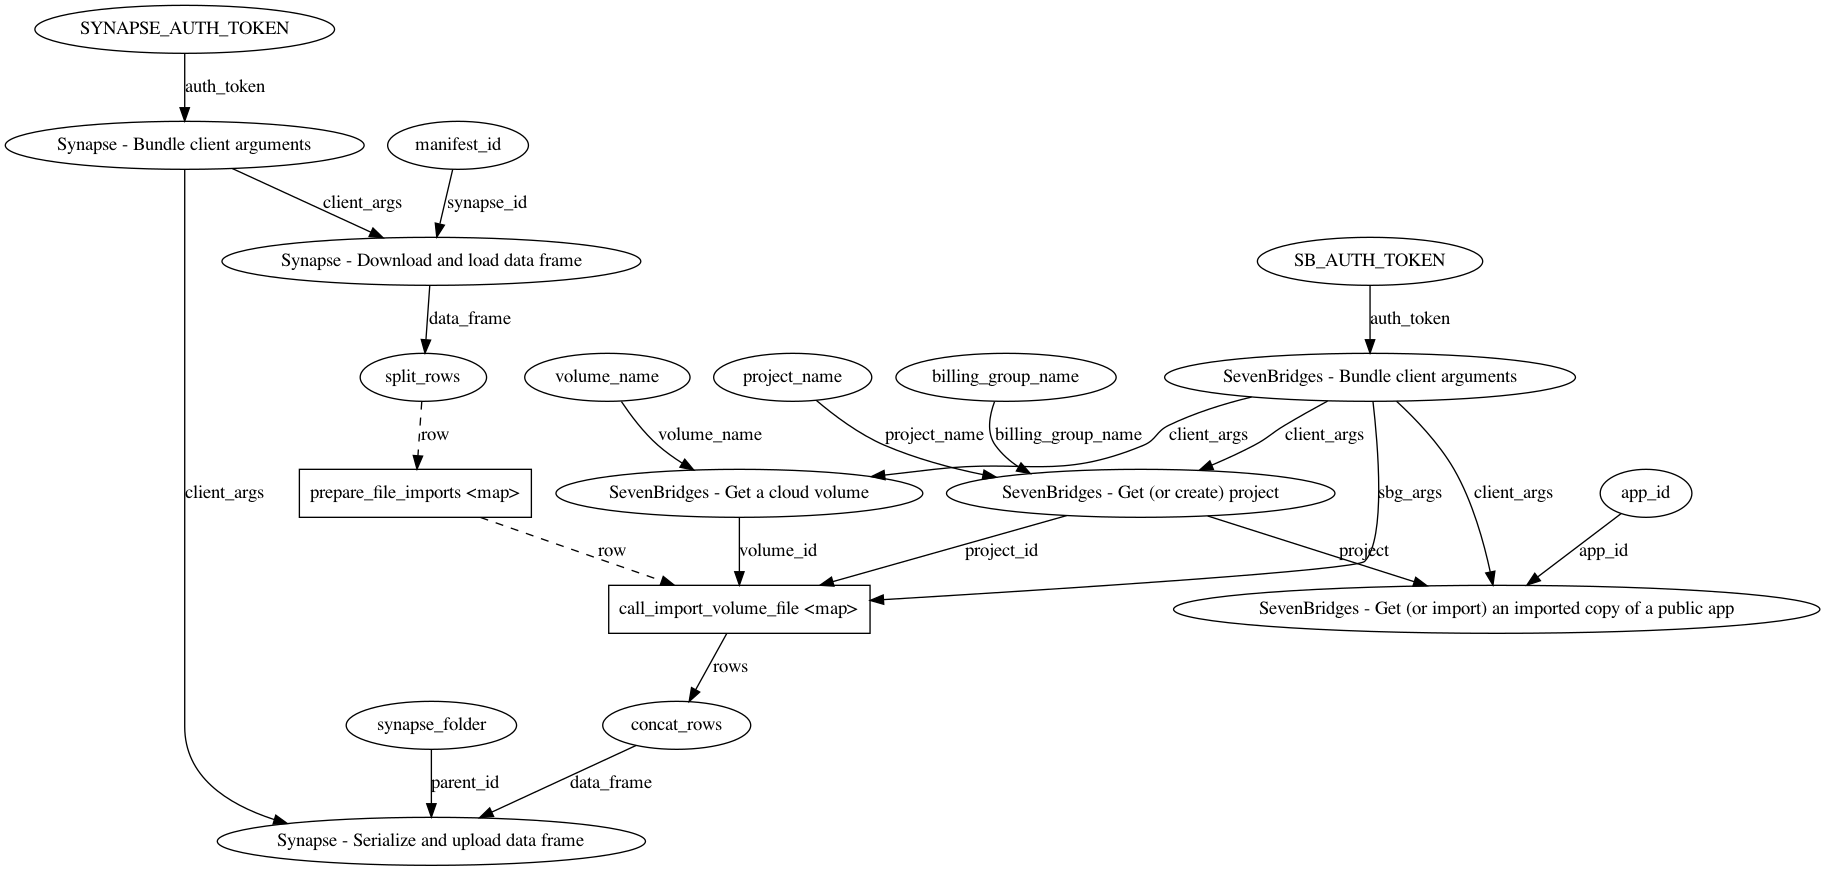
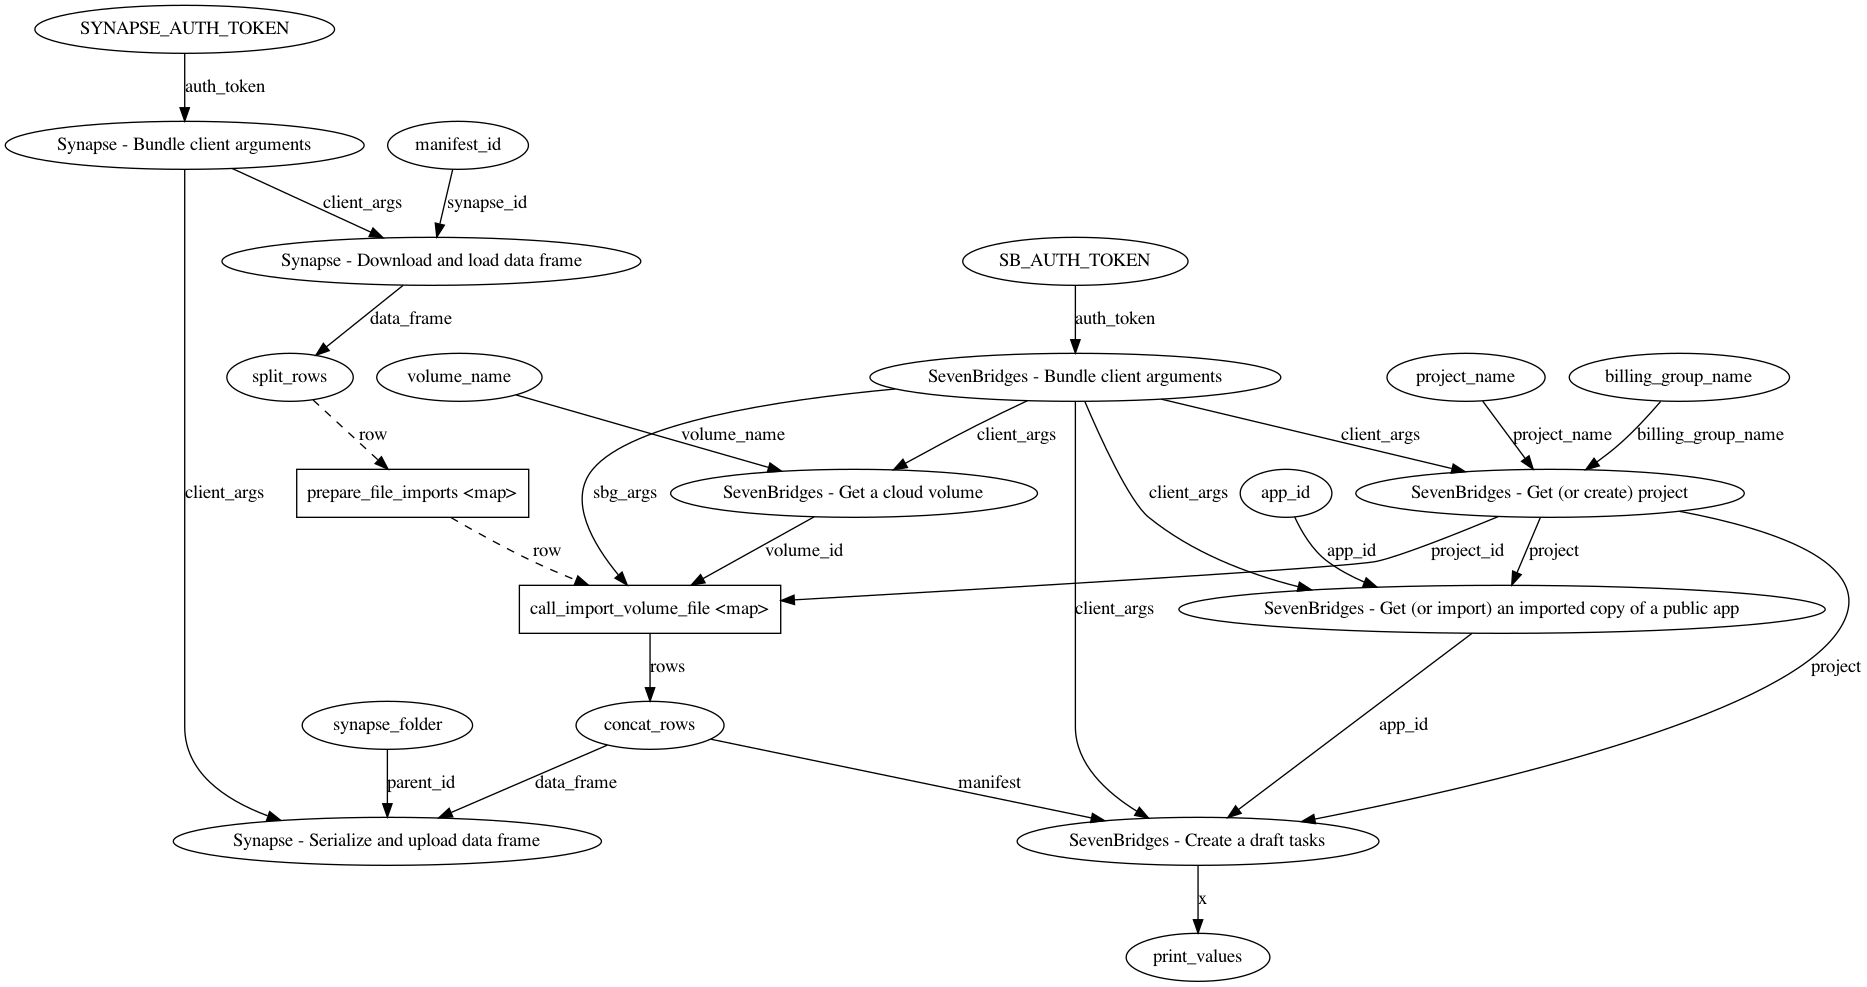
Add support for task creation

diff --git a/include.py b/include.py
@@ -1,0 +1,120 @@
+from copy import deepcopy
+import re
+import numpy as np
+
+GTEX_NORMAL_PARAMS = {
+    "alignInsertionFlush": "None",
+    "alignIntronMax": 1000000,
+    "alignMatesGapMax": 1000000,
+    "alignSJDBoverhangMin": 1,
+    "alignSJoverhangMin": 8,
+    "alignSoftClipAtReferenceEnds": "Yes",
+    "chimJunctionOverhangMin": 15,
+    "chimMainSegmentMultNmax": 1,
+    "chimSegmentMin": 15,
+    "limitSjdbInsertNsj": 1200000,
+    "outFilterIntronMotifs": "None",
+    "outFilterMatchNminOverLread": 0.33,
+    "outFilterMismatchNmax": 999,
+    "outFilterMismatchNoverLmax": 0.1,
+    "outFilterMultimapNmax": 20,
+    "outFilterScoreMinOverLread": 0.33,
+    "outFilterType": "BySJout",
+    "twopassMode": "Basic",
+}
+
+STRANDEDNESS_DEFAULTS = ("default", "rf-stranded", "fr-stranded")
+
+TUMOR_REGEX = re.compile(r"tumou?r")
+
+
+def get_unique_value(df, col, default=None):
+    if col not in df and default is not None:
+        raw = [default]
+    else:
+        raw = df[col].unique()
+    assert len(raw) == 1
+    val = raw[0]
+    if isinstance(val, np.int64):
+        val = int(val)
+    return val
+
+
+def format_rg_val(val):
+    return re.sub(r"\s", "_", val)
+
+
+# TODO: Currently assumes paired-end data
+# TODO: Separate function to import suggested reference files
+# TODO: Improve task naming
+def manifest_to_kfdrc_rnaseq_workflow_inputs_factory(
+    file_col="cavatica_file_id",
+    sample_col="sample_id",
+    readlen_col="read_length",
+    sampletype_col="sample_type",
+    orientation_col="read_orientation",
+    orientation_vals=("R1", "R2"),
+    strandedness_col="strandedness",
+    strandedness_vals=STRANDEDNESS_DEFAULTS,
+    library_col="library_id",
+    platform_col="platform",
+):
+    def manifest_to_kfdrc_rnaseq_workflow_inputs(client, manifest):
+        # Unpacking valid values
+        r1_val, r2_val = orientation_vals
+        strandedness_map = dict(zip(strandedness_vals, STRANDEDNESS_DEFAULTS))
+
+        # Prepare inputs
+        by_sample = manifest.groupby(sample_col)
+        for sample_id in by_sample.groups:
+            # Subset manifest for specific sample
+            sample_df = by_sample.get_group(sample_id)
+            assert len(sample_df.index) == 2
+            # Retrieve Cavatica file IDs
+            r1_file_id = sample_df[sample_df[orientation_col] == r1_val][file_col].iat[
+                0
+            ]
+            r2_file_id = sample_df[sample_df[orientation_col] == r2_val][file_col].iat[
+                0
+            ]
+            # Retrieve other metadata
+            strandedness_raw = get_unique_value(sample_df, strandedness_col)
+            strandedness = strandedness_map.get(strandedness_raw, None)
+            assert strandedness
+            library_id = get_unique_value(sample_df, library_col, "Not_Reported")
+            platform = get_unique_value(sample_df, platform_col, "Not_Reported")
+            read_length = get_unique_value(sample_df, readlen_col)
+            sample_type = get_unique_value(sample_df, sampletype_col)
+            is_tumor = TUMOR_REGEX.search(sample_type)
+            # Prepare params dictionary
+            inputs = dict() if is_tumor else deepcopy(GTEX_NORMAL_PARAMS)
+            updates = {
+                "input_type": "FASTQ",
+                "reads1": client.files.get(r1_file_id),
+                "reads2": client.files.get(r2_file_id),
+                "runThreadN": 36,
+                "wf_strand_param": strandedness,
+                "sample_name": sample_id,
+                "rmats_read_length": read_length,
+                "outSAMattrRGline": "\t".join(
+                    map(
+                        format_rg_val,
+                        [
+                            f"ID:{sample_id}",
+                            f"LB:{library_id}",
+                            f"PL:{platform}",
+                            f"SM:{sample_id}",
+                        ],
+                    )
+                ),
+            }
+            inputs.update(updates)
+            task_name = "kf-rnaseq-workflow - " + sample_id
+
+            def callback_fn(task):
+                task.inputs["output_basename"] = task.id
+                task.save()
+
+            yield task_name, inputs, callback_fn
+
+    return manifest_to_kfdrc_rnaseq_workflow_inputs

diff --git a/demo.py b/demo.py
@@ -11,6 +11,16 @@ from prefect.tasks.secrets import EnvVarSecret
 # specific task function imports
 import sagetasks.synapse.prefect as syn
 import sagetasks.sevenbridges.prefect as sbg
+from include import manifest_to_kfdrc_rnaseq_workflow_inputs_factory
+
+# --------------------------------------------------------------
+# Generate custom functions using factories
+# --------------------------------------------------------------
+
+
+prepare_task_inputs = manifest_to_kfdrc_rnaseq_workflow_inputs_factory(
+    file_col="imported_file_id"
+)
 
 
 # --------------------------------------------------------------
@@ -104,10 +114,14 @@ with Flow("Demo") as flow:
         rows_prep,
     )
     sbg_manifest = concat_rows(rows_imp)
+    drafted_tasks = sbg.create_tasks(
+        sbg_args, project_id, app_id, sbg_manifest, prepare_task_inputs
+    )
+    print_values(drafted_tasks)
     syn.store_dataframe(syn_args, sbg_manifest, "sbg_manifest.csv", synapse_folder)
 
 params = {
-    "manifest_id": "syn31937724",
+    "manifest_id": "syn33335513",
     "synapse_folder": "syn33335225",
     "project_name": "include-sandbox",
     "billing_group_name": "include-dev",

diff --git a/sagetasks/sevenbridges/utils.py b/sagetasks/sevenbridges/utils.py
@@ -246,3 +246,24 @@ class SbgUtils:
         get_fn = partial(self.get_file, file_name, parent)
         create_fn = partial(self.import_volume_file, volume_id, volume_path, parent)
         return self.get_or_create(get_fn, create_fn)
+
+    def get_task(self, task_name=None, app_id=None):
+        matches = self.client.tasks.query(project=self.project)
+        if task_name:
+            matches = [t for t in matches if t.name == task_name]
+        if app_id:
+            matches = [t for t in matches if app_id in t.app]
+        return matches
+
+    def create_task(self, app_id, inputs, task_name, callback_fn=None):
+        task = self.client.tasks.create(
+            name=task_name, project=self.project, app=app_id, inputs=inputs, run=False
+        )
+        if callback_fn:
+            callback_fn(task)
+        return task
+
+    def get_or_create_task(self, app_id, inputs, task_name, callback_fn=None):
+        get_fn = partial(self.get_task, task_name, app_id)
+        create_fn = partial(self.create_task, app_id, inputs, task_name, callback_fn)
+        return self.get_or_create(get_fn, create_fn)

diff --git a/sagetasks/sevenbridges/general.py b/sagetasks/sevenbridges/general.py
@@ -43,3 +43,15 @@ def import_volume_file(client_args, project, volume_id, volume_path, project_pat
     )
     imported_file_id = utils.extract_id(imported_file)
     return imported_file_id
+
+
+def create_tasks(client_args, project, app_id, manifest, inputs_fn):
+    """SevenBridges - Create a draft tasks"""
+    utils = SbgUtils(client_args)
+    utils.open_project(project)
+    draft_task_ids = list()
+    for task_name, inputs, callback_fn in inputs_fn(utils.client, manifest):
+        task = utils.get_or_create_task(app_id, inputs, task_name, callback_fn)
+        task_id = utils.extract_id(task)
+        draft_task_ids.append(task_id)
+    return draft_task_ids
